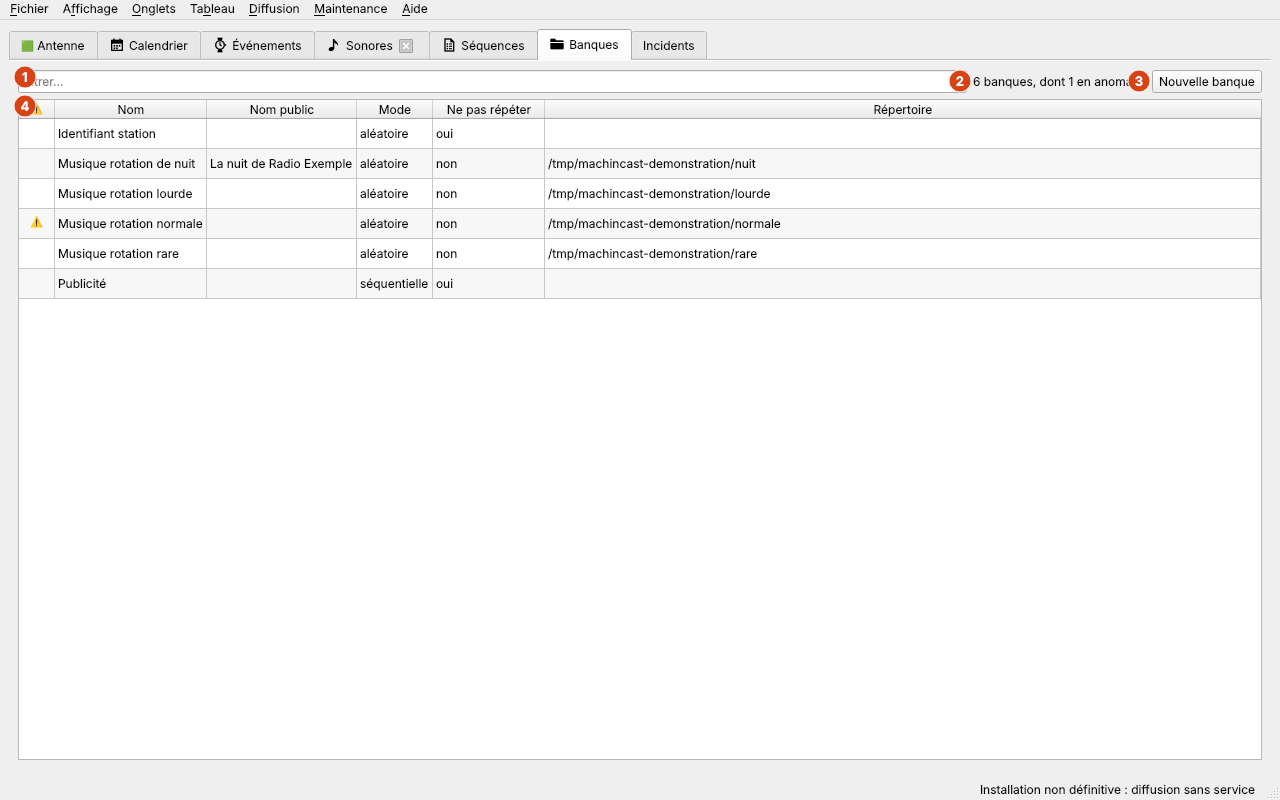
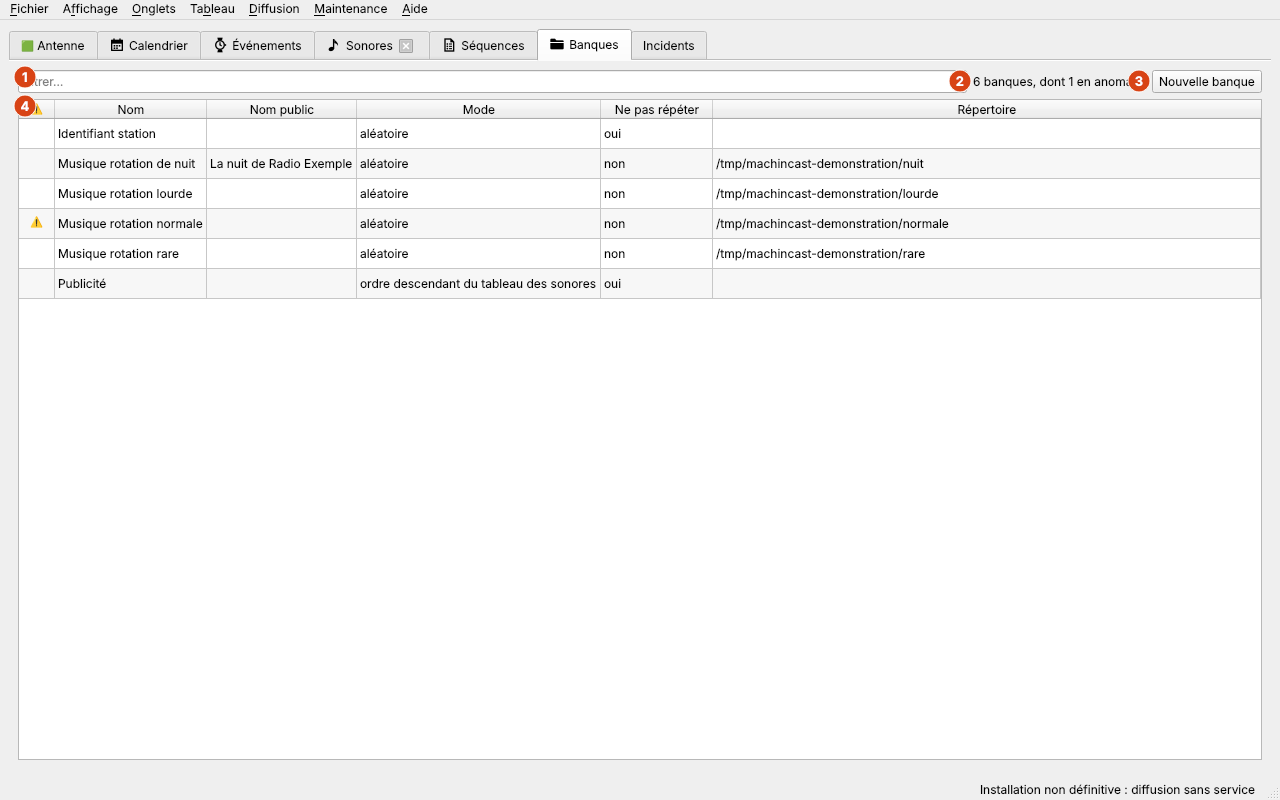
feat(interface): heure seule d'un événement récurrent, ordre ascendant du tableau d'une banque
https://github.com/dascritch/machincast/issues/535
Fiches d'événement et de banque plus lisibles

Fiche d'un événement : dès qu'un jour de récurrence est coché, « Début » et
« Fin » ne montrent que l'heure de chaque occurrence ; la date de la
première occurrence reste en base, inchangée.

Fiche d'une banque : « Séquentielle » devient « Ordre descendant du tableau
des sonores », et « Ordre ascendant du tableau des sonores » s'ajoute, une
nouvelle valeur du type bank_mode (migration 0004.bank-table-ascending,
annulable vers le mode séquentiel). Machin player la joue en remontant les
positions, du dernier sonore au premier ; elle se réordonne à la main comme
l'ordre descendant. Les listes nomment les modes de même.

Claude-Session: https://claude.ai/code/session_01KaPegkCQoT3k3oMgjXGsiv

diff --git a/src/machincast/interface/bank_card.py b/src/machincast/interface/bank_card.py
@@ -18,8 +18,8 @@ une nouvelle banque. Enregistrement, annulation et fermeture : machincast.interf
   n'est pas enregistrée.
 - Ouvrir un sonore, par un double-clic ou Entrée, ouvre sa fiche (https://github.com/dascritch/machincast/issues/115) ;
   la banque reste telle quelle, modifications comprises. Un fichier déposé n'a de fiche qu'une fois enregistré.
-- Les sonores se réordonnent par glisser-déposer, ou par les boutons « Monter » et « Descendre », en mode séquentiel
-  seulement. Ils s'ajoutent parmi les sonores déjà en base (machincast.interface.choice), y compris hors des
+- Les sonores se réordonnent par glisser-déposer, ou par les boutons « Monter » et « Descendre », dans l'ordre du
+  tableau seulement, descendant ou ascendant (https://github.com/dascritch/machincast/issues/535). Ils s'ajoutent parmi les sonores déjà en base (machincast.interface.choice), y compris hors des
   répertoires de la banque.
 - Des dossiers déposés depuis le navigateur de fichiers s'ajoutent aux répertoires, des fichiers sonores aux sonores
   (machincast.interface.drop), toujours comme une copie. Un fichier pas encore en base devient un sonore à l'état
@@ -41,12 +41,12 @@ une nouvelle banque. Enregistrement, annulation et fermeture : machincast.interf
   ceux dont une colonne contient le texte tapé, sans tenir compte des majuscules ni des accents, comme celui de l'onglet
   Incidents ; il lit d'abord tous les sonores de la banque. Pendant un filtre, l'ordre ne se change pas : ni glisser,
   ni « Monter », ni « Descendre ». En mode aléatoire seulement, un clic sur un titre de colonne trie les sonores
-  (SoundLine : la durée dans l'ordre des durées, le reste par son texte), après avoir lu toute la banque ; en mode
-  séquentiel, l'ordre est celui de passage, et ne se trie pas : passer en séquentiel rend l'ordre d'avant le tri
+  (SoundLine : la durée dans l'ordre des durées, le reste par son texte), après avoir lu toute la banque ; dans l'ordre
+  du tableau, l'ordre est celui de passage, et ne se trie pas : y passer rend l'ordre d'avant le tri
   (ORDER), pour ne jamais enregistrer un ordre trié.
 - Copier-coller (https://github.com/dascritch/machincast/issues/129, machincast.interface.clipboard) : Ctrl+C, ou
   « Copier » au clic droit, copie les sonores choisis, dans leur ordre ; Ctrl+V, ou « Coller », colle des sonores
-  copiés d'une banque, d'un événement ou d'une séquence. En mode séquentiel, sans filtre, ils vont après la ligne
+  copiés d'une banque, d'un événement ou d'une séquence. Dans l'ordre du tableau, sans filtre, ils vont après la ligne
   courante ; sinon, en fin de liste, ou à leur place dans le tri. Ils restent choisis. Une banque ne contient que des
   sonores, chacun une fois : une banque ou une séquence copiée est laissée de côté, comme un stream pas encore créé,
   et un sonore déjà dans la banque n'est pas collé une seconde fois ; la fiche le dit. Un sonore effacé de la base
@@ -94,12 +94,16 @@ from machincast.interface.queries import banks
 from machincast.interface.ui.bank_card import Ui_BankCard
 
 MODES = (
-	("sequential", _("Sequential")),
+	# L'ordre du tableau des sonores, en le descendant ou en le remontant (https://github.com/dascritch/machincast/issues/535).
+	("sequential", _("Descending order of the sounds table")),
+	("sequential_ascending", _("Ascending order of the sounds table")),
 	("random", _("Random")),
 	# https://github.com/dascritch/machincast/issues/454
 	("filename_ascending", _("A→Z of the file name")),
 	("filename_descending", _("Z→A of the file name")),
 )
+TABLE_ORDERS = ("sequential", "sequential_ascending")
+"""Les modes qui suivent l'ordre du tableau des sonores : lui seul se change, et ne se trie pas."""
 CROSSFADE_RULES = (
 	("sound", _("Keep the sounds' own")),
 	("default", _("Apply if the sound has none")),
@@ -538,7 +542,7 @@ class BankCard(Card):
 		lines, aside, already = self._pasted_lines(copied_list)
 		tree = self.ui.sounds
 		current = tree.currentItem()
-		in_order = (self.ui.mode.currentData() == "sequential") and (self.ui.sound_filter.text() == "")
+		in_order = (self.ui.mode.currentData() in TABLE_ORDERS) and (self.ui.sound_filter.text() == "")
 		if (in_order) and (current is not None):
 			tree.insertTopLevelItems(tree.indexOfTopLevelItem(current) + 1, lines)
 		else:
@@ -807,9 +811,9 @@ class BankCard(Card):
 
 	def _refresh_buttons(self) -> None:
 		"""Les boutons d'une ligne ne servent qu'à une ligne choisie. L'ordre des sonores ne compte, et ne se change,
-		qu'en mode séquentiel : « Monter » et « Descendre » ne servent pas en tête et en fin de liste."""
+		que dans l'ordre du tableau, descendant ou ascendant : « Monter » et « Descendre » ne servent pas en tête et en fin de liste."""
 		self.ui.remove_directory.setEnabled(self.ui.directories.currentItem() is not None)
-		sequential = self.ui.mode.currentData() == "sequential"
+		sequential = self.ui.mode.currentData() in TABLE_ORDERS
 		self._follow_mode(sequential=sequential)
 		filtered = self.ui.sound_filter.text() != ""
 		# Pendant un filtre, l'ordre ne se change pas : des lignes cachées sépareraient les lignes montrées.

diff --git a/src/machincast/player/banks.py b/src/machincast/player/banks.py
@@ -5,6 +5,8 @@ fourni. Un redémarrage du binaire, ou un sonore ajouté à une banque, ne pertu
 
 - Séquentiel : le premier sonore jouable qui suit, dans l'ordre des positions, le dernier joué via cette banque ;
   après le dernier, la liste reprend au début. Sans passage via la banque, le premier sonore jouable.
+- Ordre ascendant du tableau (https://github.com/dascritch/machincast/issues/535) : comme le séquentiel, l'ordre
+  descendant du tableau des sonores, mais en remontant les positions, du dernier au premier.
 - A→Z ou Z→A du nom de fichier (https://github.com/dascritch/machincast/issues/454) : comme le séquentiel, dans l'ordre
   du nom de fichier des sonores, sans son répertoire, croissant ou décroissant, au lieu de l'ordre des positions ; les
   noms se comparent tels quels, caractère par caractère, et l'ordre se recalcule à chaque choix : un fichier ajouté
@@ -38,6 +40,10 @@ from machincast.randomness import Randomness
 PLAYABLE_STATE = "active"
 FILENAME_ORDERS = {"filename_ascending": False, "filename_descending": True}
 """Les modes dans l'ordre du nom de fichier, et s'il est décroissant (https://github.com/dascritch/machincast/issues/454)."""
+TABLE_ASCENDING = "sequential_ascending"
+"""L'ordre ascendant du tableau des sonores, en remontant les positions (https://github.com/dascritch/machincast/issues/535)."""
+ORDERED_MODES = ("sequential", TABLE_ASCENDING, *FILENAME_ORDERS)
+"""Les modes qui donnent les sonores dans un ordre, et non au hasard."""
 
 
 @dataclass(frozen=True)
@@ -173,6 +179,8 @@ def _playable_list(
 	candidates = _candidates(connection, bank, history)
 	if mode in FILENAME_ORDERS:
 		candidates = by_file_name(candidates, descending=FILENAME_ORDERS[mode])
+	if mode == TABLE_ASCENDING:
+		candidates.reverse()
 	sounds = []
 	for c in candidates:
 		sounds.append(c.sound)
@@ -219,7 +227,7 @@ def choose_sound(
 	order, playable_list = _playable_list(connection, bank, instant, history, mode)
 	playable_list -= excluded_list
 	played_list = history.played_via_bank(connection, bank)
-	if (mode == "sequential") or (mode in FILENAME_ORDERS):
+	if mode in ORDERED_MODES:
 		last_played = None
 		if played_list:
 			last_played = played_list[0]

diff --git a/src/machincast/interface/event_card.py b/src/machincast/interface/event_card.py
@@ -73,6 +73,9 @@ HIDINGS: tuple[tuple[bool | None, str], ...] = (
 """Valeurs de events.hide_metadata, dans l'ordre du choix de la fiche."""
 REPETITION = _("A sound, a bank or a sequence may come back several times in an event.")
 """Remarque des choix d'éléments."""
+DATE_AND_HOUR = "dd/MM/yyyy HH:mm"
+HOUR_ONLY = "HH:mm"
+"""Le format de « Début » et « Fin » d'un événement qui revient (https://github.com/dascritch/machincast/issues/535)."""
 END_OF_LIST: tuple[tuple[str, str], ...] = (
 	("replay", _("Replay the list")),
 	("background_programming", _("Switch to the background programming")),
@@ -170,6 +173,7 @@ class EventCard(Card):
 			field.dateTimeChanged.connect(self._modify)
 		for day in self.days:
 			day.toggled.connect(self._modify)
+			day.toggled.connect(self._hour_only)
 		self.load()
 
 	def title(self) -> str:
@@ -372,6 +376,16 @@ class EventCard(Card):
 		ui.end.setEnabled(ui.has_end.isChecked())
 		for day in self.days:
 			day.setEnabled(with_start)
+
+	def _hour_only(self) -> None:
+		"""Un jour de récurrence coché : « Début » et « Fin » ne montrent que l'heure, celle de chaque occurrence
+		(https://github.com/dascritch/machincast/issues/535) ; sans jour, la date et l'heure de l'occurrence unique."""
+		shown = DATE_AND_HOUR
+		for day in self.days:
+			if day.isChecked():
+				shown = HOUR_ONLY
+		for field in (self.ui.start, self.ui.end):
+			field.setDisplayFormat(shown)
 
 	# ─── Fin de liste et secours (https://github.com/dascritch/machincast/issues/350) ───
 

diff --git a/tests/test_bank_card.py b/tests/test_bank_card.py
@@ -47,6 +47,7 @@ scenarios("bank_card.feature")
 HIDINGS = {"hérité du sonore": None, "masqués": True, "affichés": False}
 MODES = {
 	"séquentielle": "sequential",
+	"Ordre ascendant du tableau des sonores": "sequential_ascending",
 	"aléatoire": "random",
 	"A→Z du nom de fichier": "filename_ascending",
 	"Z→A du nom de fichier": "filename_descending",
@@ -371,7 +372,7 @@ def reorderable(interface: Context, verdict: str) -> None:
 @then(
 	parsers.re(
 		r"la banque « (?P<name>[^»]+) » est en base : (?:nom public « (?P<public_name>[^»]+) »|sans nom public),"
-		r" (?P<mode>séquentielle|aléatoire|A→Z du nom de fichier|Z→A du nom de fichier), masquage « (?P<hiding>[^»]+) »,"
+		r" (?P<mode>séquentielle|aléatoire|Ordre ascendant du tableau des sonores|A→Z du nom de fichier|Z→A du nom de fichier), masquage « (?P<hiding>[^»]+) »,"
 		r" (?P<repeat>avec|sans) « ne pas répéter »"
 	)
 )

diff --git a/tests/test_schema.py b/tests/test_schema.py
@@ -245,9 +245,14 @@ def save_empty(context: Context, table: str) -> None:
 
 @when("j'annule la dernière migration")
 def cancel_last() -> None:
+	cancel_lasts(1)
+
+
+@when(parsers.parse("j'annule les {count:d} dernières migrations"))
+def cancel_lasts(count: int) -> None:
 	"""La base de test reçoit de nouveau ses migrations au scénario suivant (purge_database)."""
 	with get_backend(url_yoyo(*sample_database_parameters())) as backend, backend.lock():
-		backend.rollback_migrations(backend.to_rollback(read_migrations(str(MIGRATION_DIRECTORY)))[:1])
+		backend.rollback_migrations(backend.to_rollback(read_migrations(str(MIGRATION_DIRECTORY)))[:count])
 
 
 @then(parsers.re(r"les banques (?P<names>«.+») sont en modes (?P<modes>«.+»)"))

diff --git a/tests/test_sound_choice.py b/tests/test_sound_choice.py
@@ -23,6 +23,7 @@ ITEM = re.compile(r"« ([^»]+) »")
 MODES = {
 	"séquentielle": "sequential",
 	"aléatoire": "random",
+	"dans l'ordre ascendant du tableau": "sequential_ascending",
 	"A→Z du nom de fichier": "filename_ascending",
 	"Z→A du nom de fichier": "filename_descending",
 }
@@ -132,7 +133,8 @@ def clock(context: Context, text: str) -> None:
 
 @given(
 	parsers.re(
-		r"une banque (?P<mode>séquentielle|aléatoire|A→Z du nom de fichier|Z→A du nom de fichier) « (?P<name>[^»]+) »"
+		r"une banque (?P<mode>séquentielle|aléatoire|dans l'ordre ascendant du tableau|A→Z du nom de fichier|Z→A du nom de fichier)"
+		r" « (?P<name>[^»]+) »"
 		r" contenant (?P<files>les fichiers )?(?P<list_>.+)"
 	)
 )

diff --git a/tests/test_event_card.py b/tests/test_event_card.py
@@ -432,3 +432,9 @@ def note_fingerprint(empty_database: Connection, fingerprints: list[str]) -> Non
 @then(parsers.re(r"l'empreinte de la grille (?P<verdict>n'a pas changé|a changé)"))
 def compared_fingerprint(empty_database: Connection, fingerprints: list[str], verdict: str) -> None:
 	assert (fingerprint(empty_database) == fingerprints[0]) == (verdict == "n'a pas changé")
+
+
+@then(parsers.parse("« Début » et « Fin » de la fiche de l'événement montrent « {start} » et « {end} »"))
+def shown_bounds(interface: Context, start: str, end: str) -> None:
+	ui = card(interface).ui
+	assert (ui.start.text(), ui.end.text()) == (start, end)

diff --git a/src/machincast/interface/lists.py b/src/machincast/interface/lists.py
@@ -83,7 +83,9 @@ WITHOUT_DAY = "~"
 """Le tri de la colonne « Priorité » : du plus important au moins important, jamais par ordre alphabétique
 (https://github.com/dascritch/machincast/issues/272)."""
 MODES = {
-	"sequential": _("sequential"),
+	# https://github.com/dascritch/machincast/issues/535
+	"sequential": _("descending order of the sounds table"),
+	"sequential_ascending": _("ascending order of the sounds table"),
 	"random": _("random"),
 	"filename_ascending": _("A→Z of the file name"),
 	"filename_descending": _("Z→A of the file name"),

diff --git a/doc/fr/spec.md b/doc/fr/spec.md
@@ -170,7 +170,7 @@ Pas de champ format ni fréquence d'échantillonnage : l'échantillonnage peut v
 | --- | --- |
 | `id`, `internal_name` | Identification. |
 | `public_name` | Affiché à la place de l'artiste et du titre masqués, après ceux de l'événement et de la séquence ([§ 4.8](#48-métadonnées-publiques-et-masquage), [#99](https://github.com/dascritch/machincast/issues/99)). Vide = aucun. |
-| `mode` | `sequential`, `random`, `filename_ascending` ou `filename_descending` ([#454](https://github.com/dascritch/machincast/issues/454), migration `0003.bank-filename-modes`). |
+| `mode` | `sequential`, `sequential_ascending`, `random`, `filename_ascending` ou `filename_descending` ([#454](https://github.com/dascritch/machincast/issues/454), migration `0003.bank-filename-modes` ; [#535](https://github.com/dascritch/machincast/issues/535), migration `0004.bank-table-ascending`). |
 | `hide_metadata` | Masquage au niveau de la banque. Vide = hérite. |
 | `no_repeat` | La banque ne peut pas passer deux fois de suite, même d'un événement à l'autre (voir [§ 4.4](#44-choix-dun-sonore-dans-une-banque), [#63](https://github.com/dascritch/machincast/issues/63)). Faux par défaut. |
 | `crossfade_start_rule`, `crossfade_start`, `crossfade_end_rule`, `crossfade_end` | Crossfades des sonores joués via la banque, chaque côté avec sa règle (type `crossfade_rule`) : `sonore` garde celui du sonore (par défaut), `default` donne celui de la banque au sonore qui n'en a pas (0 seconde), `forced` le donne à tout sonore ([#143](https://github.com/dascritch/machincast/issues/143)). |
@@ -414,7 +414,8 @@ Quand l'interface supprime un élément, les références dans `airplay` et `log
 
 ### 4.4 Choix d'un sonore dans une banque
 
-- **Séquentiel** : le sonore qui suit, dans l'ordre de `position`, le dernier joué via cette banque.
+- **Séquentiel**, l'ordre descendant du tableau des sonores : le sonore qui suit, dans l'ordre de `position`, le dernier joué via cette banque.
+- **Ordre ascendant du tableau des sonores** ([#535](https://github.com/dascritch/machincast/issues/535), `sequential_ascending`) : comme le séquentiel, en remontant les positions, du dernier sonore au premier, puis de nouveau depuis le dernier.
 - **A→Z** et **Z→A du nom de fichier** ([#454](https://github.com/dascritch/machincast/issues/454), `filename_ascending`, `filename_descending`) : comme le séquentiel, dans l'ordre croissant ou décroissant du nom de fichier des sonores, sans son répertoire (le stream, par son adresse), au lieu de l'ordre de `position` ; à nom égal, l'ordre de `position`.
 	Les noms se comparent tels quels, caractère par caractère, sans tenir compte des accents ni d'un nombre : un préfixe numérique de même longueur (« 01- », « 02- »…) donne l'ordre de rotation.
 	L'ordre se recalcule à chaque choix (`banks.by_file_name`) : un fichier ajouté ou renommé prend aussitôt sa place.
@@ -1355,7 +1356,7 @@ Mise en œuvre ([#28](https://github.com/dascritch/machincast/issues/28), `machi
 
 - Édition du nom interne et du nom public ([#99](https://github.com/dascritch/machincast/issues/99)).
 - Masquage de l'artiste et du titre.
-- Mode séquentiel, aléatoire, ou dans l'ordre du nom de fichier, A→Z ou Z→A ([#454](https://github.com/dascritch/machincast/issues/454)) ; seul le séquentiel se réordonne à la main, les autres se trient par colonne.
+- Mode « Ordre descendant du tableau des sonores » (séquentiel), « Ordre ascendant du tableau des sonores » ([#535](https://github.com/dascritch/machincast/issues/535)), aléatoire, ou dans l'ordre du nom de fichier, A→Z ou Z→A ([#454](https://github.com/dascritch/machincast/issues/454)) ; seuls les deux ordres du tableau se réordonnent à la main (`bank_card.TABLE_ORDERS`), les autres se trient par colonne.
 - Case « ne pas répéter » : la banque ne passe jamais deux fois de suite ([#63](https://github.com/dascritch/machincast/issues/63)).
 - Case « détection de silence », décochée pour une nouvelle banque : ses sonores sont joués sans leurs silences détectés ([#146](https://github.com/dascritch/machincast/issues/146)).
 - Durées minimale et maximale des sonores ([#147](https://github.com/dascritch/machincast/issues/147)), facultatives : un sonore qui en sort est marqué dans la liste de la fiche, d'après ses durées, avant même l'enregistrement, avec une infobulle (« 3:20 : plus court que le minimum de la banque, 3:30. »).
@@ -1363,7 +1364,7 @@ Mise en œuvre ([#28](https://github.com/dascritch/machincast/issues/28), `machi
 	La prochaine indexation le retire de la banque ([#195](https://github.com/dascritch/machincast/issues/195)).
 - Crossfades de début et de fin ([#143](https://github.com/dascritch/machincast/issues/143)) : pour chacun, une règle, « Garder ceux des sonores », « Appliquer si le sonore n'en a pas » ou « Imposer à tous les sonores », et une durée, qui ne se modifie pas tant que la banque garde ceux des sonores.
 - Liste des répertoires indexés : ajout et retrait.
-- Liste des sonores liés, réordonnable par glisser-déposer en mode séquentiel.
+- Liste des sonores liés, réordonnable par glisser-déposer dans l'ordre du tableau, descendant ou ascendant.
 	Ajout de sonores, y compris hors des répertoires de la banque.
 - Lecture par pages ([#383](https://github.com/dascritch/machincast/issues/383)) : la liste des sonores lit d'abord les `interface.table_rows` premiers (1 000 par défaut), dans l'ordre de la banque (`bank_card.PAGE`, par position, `LIMIT` d'une ligne de plus pour savoir s'il en reste) ; arriver au bas de la liste lit la page suivante (`BankCard._scrolled`, `load_more`), sans modifier la fiche.
 	Tant qu'il en reste, le titre du groupe dit « Sonores : N montrés sur T, la suite se charge en descendant », et l'avertissement en haut de la fiche compte aussi les états des sonores pas encore lus (`queries.banks.TAIL_STATES`).
@@ -1376,10 +1377,10 @@ Mise en œuvre ([#28](https://github.com/dascritch/machincast/issues/28), `machi
 	Une ligne ajoutée ou déposée est filtrée aussi.
 	Tant qu'un filtre est rempli, l'ordre ne se change pas : glisser-déposer, « ↥ Monter » et « ↧ Descendre » sont inactifs, un déplacement entre lignes cachées étant ambigu.
 	Le tri par colonne (`SoundLine`, la durée par secondes, les autres colonnes par leur texte sans accents) n'existe qu'en mode aléatoire, où l'ordre ne compte pas ; il lit aussi toutes les pages.
-	Chaque ligne porte son rang dans la banque (rôle `ORDER`), renuméroté à l'entrée en mode aléatoire ; le passage en mode séquentiel désactive le tri et, si une colonne était triée, remet les lignes dans ce rang (`_restore_order`) : un ordre trié n'est jamais enregistré.
+	Chaque ligne porte son rang dans la banque (rôle `ORDER`), renuméroté à l'entrée en mode aléatoire ; le passage à l'ordre du tableau, descendant ou ascendant, désactive le tri et, si une colonne était triée, remet les lignes dans ce rang (`_restore_order`) : un ordre trié n'est jamais enregistré.
 - Sélection multiple des sonores liés ([#114](https://github.com/dascritch/machincast/issues/114)) : une colonne État ; le clic droit sur plusieurs sonores les active ou les désactive, à l'enregistrement de la fiche (« Annuler » l'oublie ; un sonore en aperçu reste en aperçu) ; « ➖ Retirer le sonore » les retire tous, avec un seul avertissement pour ceux des répertoires de la banque ; « Monter » et « Descendre » ne servent qu'à un sonore seul.
 - Copier-coller des sonores ([#129](https://github.com/dascritch/machincast/issues/129), `BankCard.copy_sounds`, `paste_sounds`, `machincast.interface.clipboard`) : le même presse-papiers que les éléments d'un événement ou d'une séquence, dans les deux sens.
-	Les sonores collés sont relus en base, et ajoutés une fois chacun : après la ligne courante en mode séquentiel sans filtre, en fin de liste ou à leur place dans le tri sinon.
+	Les sonores collés sont relus en base, et ajoutés une fois chacun : après la ligne courante dans l'ordre du tableau, sans filtre, en fin de liste ou à leur place dans le tri sinon.
 	Une banque ou une séquence copiée est laissée de côté (« Laissé de côté, une banque ne contient que des sonores : … »), comme un stream pas encore créé ; un sonore déjà dans la banque n'est pas collé (« Déjà dans la banque, pas collé une seconde fois : … »).
 	Un fichier pas encore en base est collé comme un fichier déposé, au crible du service.
 
@@ -1403,7 +1404,7 @@ Mise en œuvre ([#31](https://github.com/dascritch/machincast/issues/31), `machi
 	Le message au pied de la fiche ne dit plus que ce qui informe : fichiers ignorés d'un dépôt, élément supprimé, copie dont l'original a disparu.
 - **Masquage** : « Hérité du sonore » (NULL), « Masqués » (vrai), « Affichés » (faux).
 - **Répertoires** : enregistrés sous leur forme normale (`os.path.normpath`), sans doublon, rangés dans l'ordre de leurs caractères.
-- **Sonores** : réordonnables par glisser-déposer ou par « ↥ Monter » et « ↧ Descendre », en mode séquentiel seulement ; une ligne ne se dépose pas dans une autre.
+- **Sonores** : réordonnables par glisser-déposer ou par « ↥ Monter » et « ↧ Descendre », dans l'ordre du tableau seulement, descendant ou ascendant ; une ligne ne se dépose pas dans une autre.
 	« ↥ Monter » et « ↧ Descendre » bougent ensemble tous les sonores choisis, d'un rang, en gardant leur ordre ([#527](https://github.com/dascritch/machincast/issues/527)).
 	Les boutons d'une ligne ne servent qu'à une ligne choisie.
 	L'ajout se fait parmi les sonores déjà en base (`Choice`, la liste filtrable des sonores à sélection multiple), ou par dépôt de fichiers (ci-dessous) ; l'ajout de fichiers depuis la liste des sonores est décrit au [§ 8.8](#88-ajout-dun-sonore).
@@ -1446,6 +1447,7 @@ Mise en œuvre ([#32](https://github.com/dascritch/machincast/issues/32), `machi
 - **Onglet** : « Événement : <nom interne> », depuis la liste des événements ; « Nouvel événement » ouvre une fiche vide, de priorité `show`, au masquage hérité.
 - **Champs** : noms enregistrés sans les espaces qui les entourent, un nom public vide comme NULL, un nom interne unique ; priorité ; masquage « Selon la séquence, la banque ou le sonore » (NULL), « Masqués » (vrai), « Affichés » (faux).
 - **Grille** : début et fin de la première occurrence, chacun à cocher, et sept cases de jours.
+	Un jour coché, « Début » et « Fin » ne montrent que l'heure de chaque occurrence ([#535](https://github.com/dascritch/machincast/issues/535), `EventCard._hour_only`) ; leur date reste en base, inchangée.
 	Un début coché part de l'heure de l'horloge, à la minute ; une fin cochée qui ne suit pas le début, d'une heure après lui.
 	Sans début, la fin et les jours se décochent et ne se saisissent pas ; la priorité `fallback` décoche le début.
 	Refusés : une émission ou un spécial sans début, une fin qui ne suit pas le début, un chevauchement ([§ 4.1](#41-choix-de-lévénement-actif)), nommé avec le premier instant commun, et un changement de priorité d'un événement de secours qu'un stream désigne, que la base refuserait aussi.

diff --git a/doc/fr/utilisateur/sonores.md b/doc/fr/utilisateur/sonores.md
@@ -160,7 +160,7 @@ La fiche d'une banque s'ouvre dans un onglet nommé « Banque : » suivi de son 
 | --- | --- |
 | Nom interne | Obligatoire, et propre à la banque. |
 | Nom public | Facultatif. Affiché sur la page publique à la place de l'artiste et du titre masqués, si l'événement et la séquence n'en ont pas. |
-| Mode | `Séquentielle` : les sonores passent dans l'ordre de la liste. `A→Z du nom de fichier` et `Z→A du nom de fichier` : dans l'ordre du nom des fichiers, ou dans l'ordre inverse ([#454](https://github.com/dascritch/machincast/issues/454)). `Aléatoire` : au hasard ([Quel sonore une banque fournit](antenne.md#quel-sonore-une-banque-fournit)). |
+| Mode | `Ordre descendant du tableau des sonores` : les sonores passent dans l'ordre de la liste, de haut en bas. `Ordre ascendant du tableau des sonores` ([#535](https://github.com/dascritch/machincast/issues/535)) : de bas en haut. `A→Z du nom de fichier` et `Z→A du nom de fichier` : dans l'ordre du nom des fichiers, ou dans l'ordre inverse ([#454](https://github.com/dascritch/machincast/issues/454)). `Aléatoire` : au hasard ([Quel sonore une banque fournit](antenne.md#quel-sonore-une-banque-fournit)). |
 | Artiste et titre | `Masqué par le nom public de la banque` ou `Affichés` sur la page publique, sauf si l'événement ou la séquence en décide ; `Hérité du sonore` laisse décider le sonore. |
 | Ne pas répéter | La banque ne passe jamais deux fois de suite. |
 | Détection de silence | Cochée, les sonores joués par la banque le sont sans leurs silences ([Silences au début et à la fin](antenne.md#silences-au-début-et-à-la-fin)). |
@@ -173,13 +173,13 @@ La fiche d'une banque s'ouvre dans un onglet nommé « Banque : » suivi de son 
 
 **Banque sans sonore actif** ([#328](https://github.com/dascritch/machincast/issues/328)) : la fiche le dit en haut, sur un liseré orange : la banque ne fournit rien, et l'élément qui l'appelle passe à son élément suivant. De même pour une banque qui a des sonores erronés ou non supportés, que la diffusion ne joue pas. Ce n'est qu'un avertissement : la banque s'enregistre. L'avertissement suit les sonores ajoutés, retirés, activés ou désactivés, avant même l'enregistrement.
 
-- **Ordre** : en mode séquentiel, un sonore se déplace par glisser-déposer, ou avec **↥ Monter** et **↧ Descendre**, qui déplacent ensemble tous les sonores choisis. En mode aléatoire, l'ordre ne compte pas.
+- **Ordre** : dans l'ordre du tableau, descendant ou ascendant, un sonore se déplace par glisser-déposer, ou avec **↥ Monter** et **↧ Descendre**, qui déplacent ensemble tous les sonores choisis. En mode aléatoire, l'ordre ne compte pas.
 - **Filtrer…**, au-dessus des sonores ([#393](https://github.com/dascritch/machincast/issues/393)) : ne montre que les sonores dont une colonne contient le texte tapé, sans tenir compte des majuscules ni des accents, emplacement compris ; le titre du groupe dit alors « Sonores : 1 affichés sur 4 ». Le filtre cherche dans tous les sonores de la banque, même ceux pas encore chargés. Tant qu'il est rempli, l'ordre ne se change pas : **Monter**, **Descendre** et le glisser-déposer attendent qu'il soit vidé.
-- **Trier**, en mode aléatoire seulement : un clic sur le titre d'une colonne trie les sonores selon elle, pour les parcourir ; la durée se trie dans l'ordre des durées. En mode séquentiel, où l'ordre est celui de la diffusion, les titres ne trient pas, et passer du mode aléatoire au mode séquentiel rend aux sonores leur ordre d'avant le tri : un tri n'est jamais enregistré comme ordre de la banque.
+- **Trier**, en mode aléatoire seulement : un clic sur le titre d'une colonne trie les sonores selon elle, pour les parcourir ; la durée se trie dans l'ordre des durées. Dans l'ordre du tableau, descendant ou ascendant, qui est celui de la diffusion, les titres ne trient pas, et passer du mode aléatoire à l'ordre du tableau rend aux sonores leur ordre d'avant le tri : un tri n'est jamais enregistré comme ordre de la banque.
 - **➕ Ajouter des sonores…** ouvre la liste des sonores en base ; **déposer des fichiers** les ajoute en fin de liste, comme nouveaux sonores `aperçu` s'ils ne sont pas encore en base.
 - **➖ Retirer le sonore** retire le sonore choisi de la banque. Si son fichier est dans l'un des répertoires de la banque, un avertissement rappelle que **la prochaine indexation l'y remettra** : **➖ Retirer quand même**, **Ouvrir le dossier** du fichier pour l'en déplacer, ou **Annuler**. Le sonore reste en base.
 - **Plusieurs sonores** se choisissent avec <kbd>Ctrl</kbd> ou <kbd>Maj</kbd> ; le clic droit propose **Pré-écoute…** du sonore cliqué, puis **Activer** et **Désactiver**, enregistrés avec le reste de la fiche, puis **Copier** et **Coller**.
-- **Copier et coller** ([#129](https://github.com/dascritch/machincast/issues/129)) : <kbd>Ctrl</kbd>+<kbd>C</kbd>, ou **Copier** au clic droit, copie les sonores choisis ; <kbd>Ctrl</kbd>+<kbd>V</kbd>, ou **Coller**, les ajoute à une autre banque, ou à la liste de lecture d'un événement ou d'une séquence, et colle de même ce qui a été copié de ces listes ou de la [recherche](prise-en-main.md#rechercher). En mode séquentiel, les sonores collés vont après le sonore choisi ; sinon, en fin de liste. Une banque ne contient que des sonores, chacun une fois : une banque ou une séquence copiée est laissée de côté, un sonore déjà dans la banque n'est pas collé une seconde fois, et la fiche le dit. Rien n'est en base avant **Enregistrer**.
+- **Copier et coller** ([#129](https://github.com/dascritch/machincast/issues/129)) : <kbd>Ctrl</kbd>+<kbd>C</kbd>, ou **Copier** au clic droit, copie les sonores choisis ; <kbd>Ctrl</kbd>+<kbd>V</kbd>, ou **Coller**, les ajoute à une autre banque, ou à la liste de lecture d'un événement ou d'une séquence, et colle de même ce qui a été copié de ces listes ou de la [recherche](prise-en-main.md#rechercher). Dans l'ordre du tableau, les sonores collés vont après le sonore choisi ; sinon, en fin de liste. Une banque ne contient que des sonores, chacun une fois : une banque ou une séquence copiée est laissée de côté, un sonore déjà dans la banque n'est pas collé une seconde fois, et la fiche le dit. Rien n'est en base avant **Enregistrer**.
 - **Couper et tout sélectionner** ([#528](https://github.com/dascritch/machincast/issues/528)) : <kbd>Ctrl</kbd>+<kbd>X</kbd>, ou **Couper** au clic droit, copie les lignes choisies puis les retire, prêtes à être collées ailleurs ; **Tout sélectionner**, au clic droit ou par <kbd>Ctrl</kbd>+<kbd>A</kbd>, choisit toutes les lignes. Le menu **Tableau** propose les mêmes actions.
 - **Ouvrir un sonore** : un double-clic ouvre sa fiche dans un autre onglet.
 

diff --git a/doc/fr/utilisateur/antenne.md b/doc/fr/utilisateur/antenne.md
@@ -61,7 +61,8 @@ Les séquences se créent dans leur [fiche](grille.md#fiche-dune-séquence).
 
 Une banque appelée par une liste fait jouer **un seul** de ses sonores, selon son mode :
 
-- **Séquentielle** : le sonore qui suit, dans l'ordre de la banque, le dernier qu'elle a fait jouer ; après le dernier, elle reprend au début.
+- **Ordre descendant du tableau des sonores** : le sonore qui suit, en descendant le tableau des sonores de la banque, le dernier qu'elle a fait jouer ; après le dernier, elle reprend au début.
+- **Ordre ascendant du tableau des sonores** ([#535](https://github.com/dascritch/machincast/issues/535)) : de même, en remontant le tableau, du dernier sonore au premier ; après le premier, elle reprend au dernier. Un nouveau fichier, ajouté en fin de tableau, passe donc le premier.
 - **A→Z du nom de fichier**, **Z→A du nom de fichier** ([#454](https://github.com/dascritch/machincast/issues/454)) : comme une banque séquentielle, mais dans l'ordre alphabétique du nom des fichiers, ou dans l'ordre inverse, quel que soit leur dossier. La rotation se prépare en nommant les fichiers : un numéro de même longueur en tête, comme `01-hiver.mp3`, `02-printemps.mp3`, `03-été.mp3`, et pas `1-…` et `10-…`, qui passerait avant `2-…`. Un fichier ajouté ou renommé prend sa place dès le sonore suivant.
 - **Aléatoire** : un sonore tiré au hasard parmi ceux qu'elle n'a pas encore joués dans son cycle. Tant que tous ne sont pas passés, aucun ne revient, et un nouveau cycle ne commence jamais par le dernier joué. Un sonore ajouté entre dans le cycle en cours.
 - **Banque par banque** : seuls comptent les passages fournis par la banque elle-même. Un sonore présent dans deux banques suit le cycle de chacune séparément.

diff --git a/doc/fr/utilisateur/grille.md b/doc/fr/utilisateur/grille.md
@@ -23,7 +23,7 @@ La fiche d'un événement s'ouvre dans un onglet nommé « Événement : » suiv
 | Priorité | De la plus basse à la plus haute : `Secours`, qui ne joue qu'à la place d'un stream tombé ([Streams](antenne.md#streams)), puis `Fil musical`, `Émission` et `Spécial` ([Quel événement est à l'antenne](antenne.md#quel-événement-est-à-lantenne)). Au-dessus, l'`Imprévu`, pour une situation qu'on ne programme pas, comme une alerte de la sécurité civile ([#402](https://github.com/dascritch/machincast/issues/402)), ne se choisit pas : la fiche d'un imprévu le montre grisé, et refuse un jour coché, puisqu'il ne se répète pas. |
 | Artiste et titre | `Masqué par le nom public de l'événement` ou `Affichés` sur la page publique, pour tout ce que l'événement fait jouer ; `Selon la séquence, la banque ou le sonore` laisse décider ceux-ci. |
 
-**Grille** : le **Début** et la **Fin** de la première occurrence, chacun à cocher, puis les **jours** où elle revient chaque semaine, à la même heure. Aucun jour coché : une seule occurrence.
+**Grille** : le **Début** et la **Fin** de la première occurrence, chacun à cocher, puis les **jours** où elle revient chaque semaine, à la même heure. Aucun jour coché : une seule occurrence. Dès qu'un jour est coché, **Début** et **Fin** ne montrent plus que l'heure de chaque occurrence ([#535](https://github.com/dascritch/machincast/issues/535)) ; la date de la première occurrence est gardée.
 
 - Un début coché part de l'heure du moment, à la minute ; une fin cochée, d'une heure après le début.
 - Un fil musical sans début est permanent, et sert de fond. Décocher le début décoche aussi la fin et les jours.
